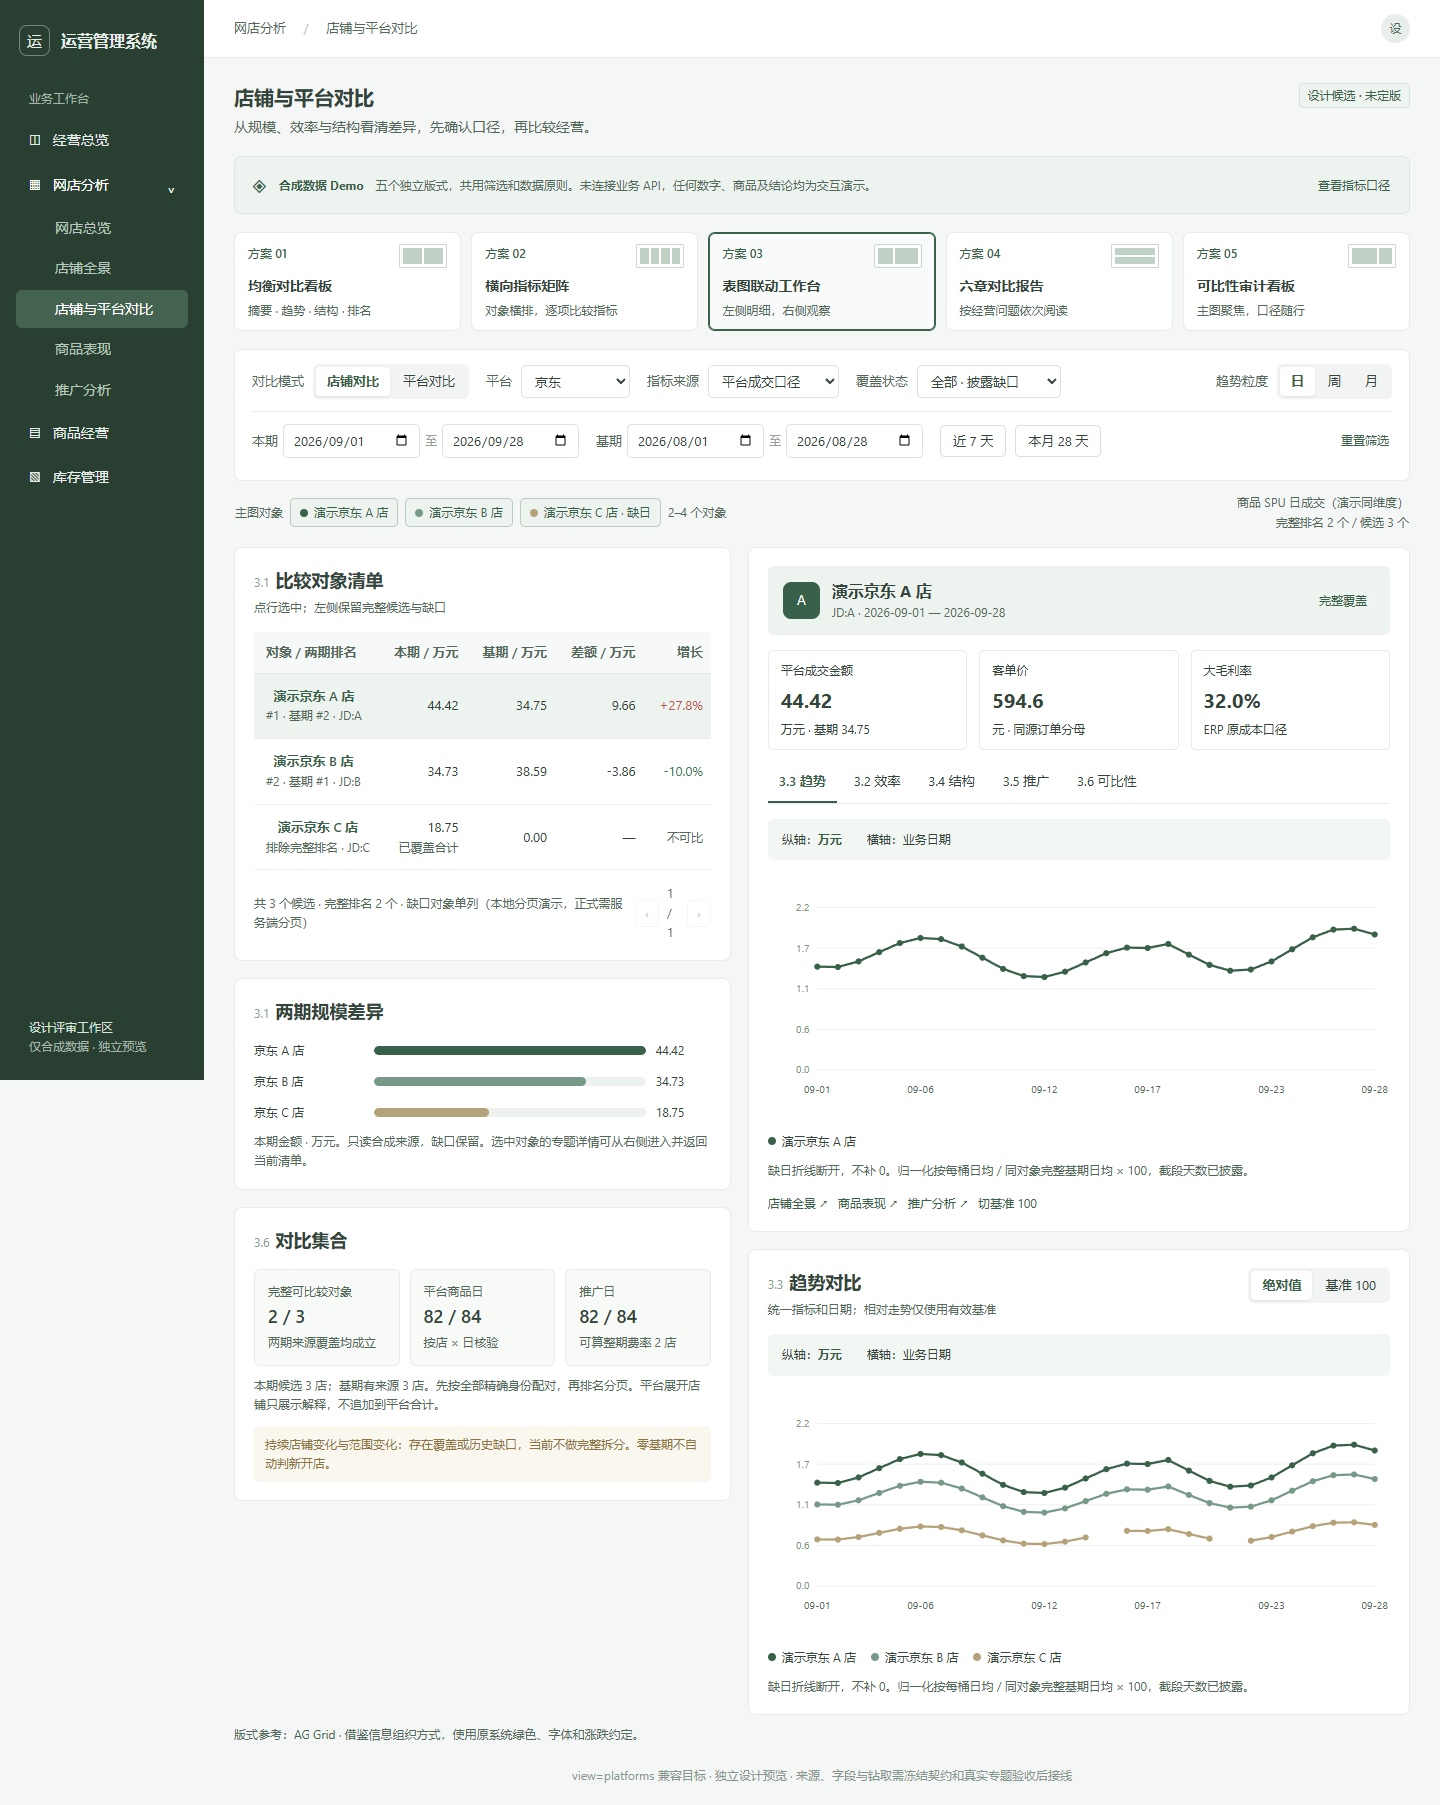
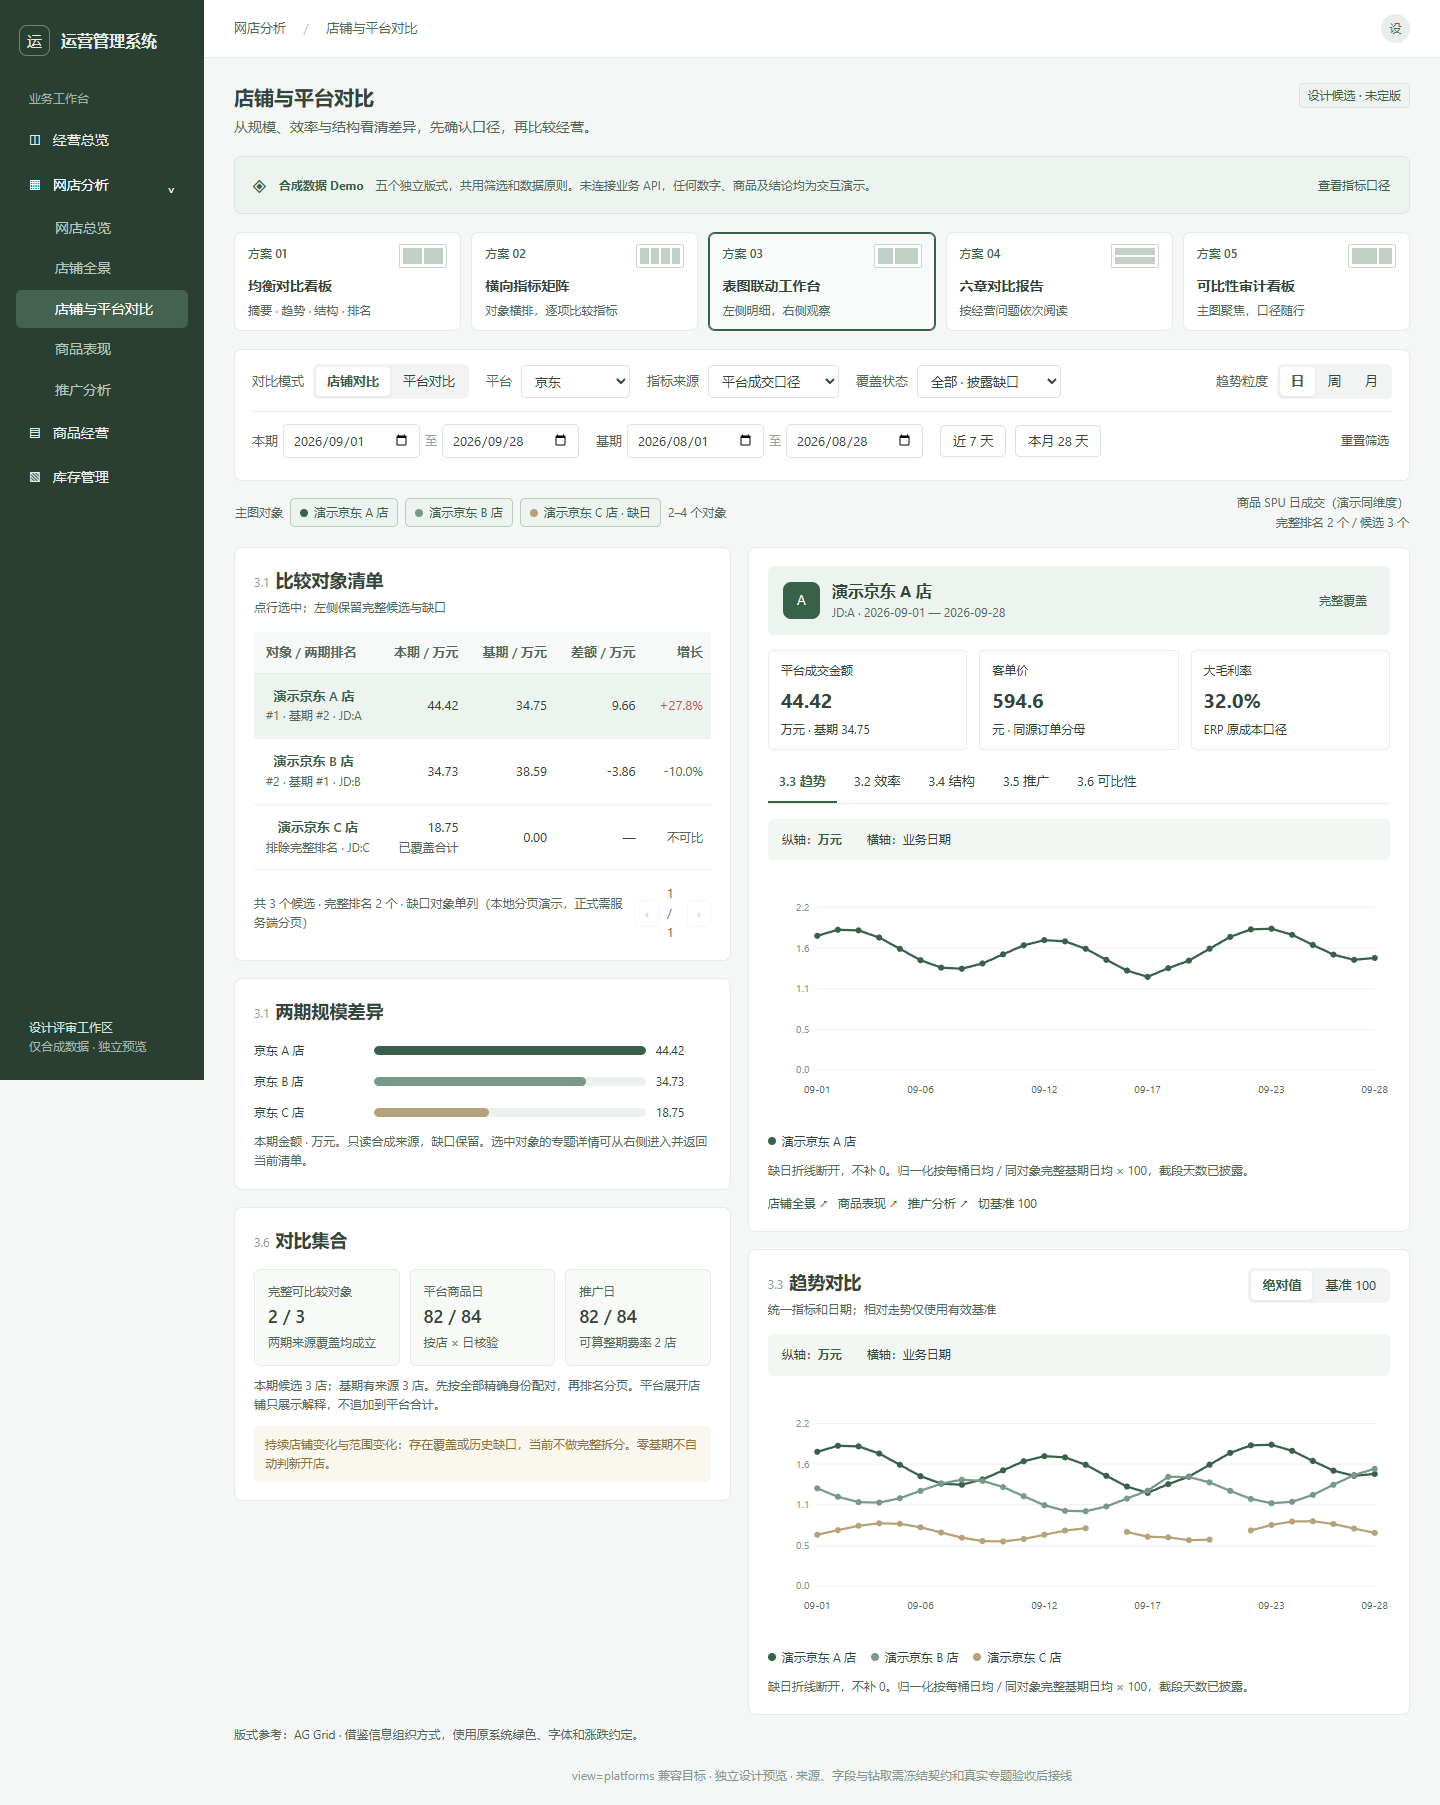
fix(netshop): use stable shop identity for comparison trend fixtures

diff --git a/app/netshop/comparison/demo/demo.js b/app/netshop/comparison/demo/demo.js
@@ -50,7 +50,7 @@
   }
   function growthHTML(object){const g=object.growth;return g.value===null?`<span class="muted small" title="${esc(g.reason)}">${g.reason=== '基期为 0，仅显示差额'?'基期 0':g.reason=== '负基期，仅显示差额'?'负基期':g.reason==='基期缺失'?'基期缺失':'不可比'}</span>`:`<span class="${g.value>=0?'up':'down'}">${g.value>=0?'+':''}${pct(g.value)}</span>`;}
   function fixture(shop,date){
-    const stamp=day(date),d=stamp.getUTCDate(),m=stamp.getUTCMonth()+1,index=SHOPS.indexOf(shop);
+    const stamp=day(date),d=stamp.getUTCDate(),m=stamp.getUTCMonth()+1,index=SHOPS.findIndex(item=>item.id===shop.id);
     const baseline=m<9, wave=1+Math.sin((d+index*4)*.63)*.15+Math.cos(d*.18)*.06;
     const factor=(baseline?shop.prev:1)*(m===9&&d>17?1.09:1)*(1+(m-9)*.025);
     const missingProduct=shop.id==='JD:C'&&m===9&&(d===15||d===21) || shop.id==='TMALL:E'&&m===9&&d%7===0;
